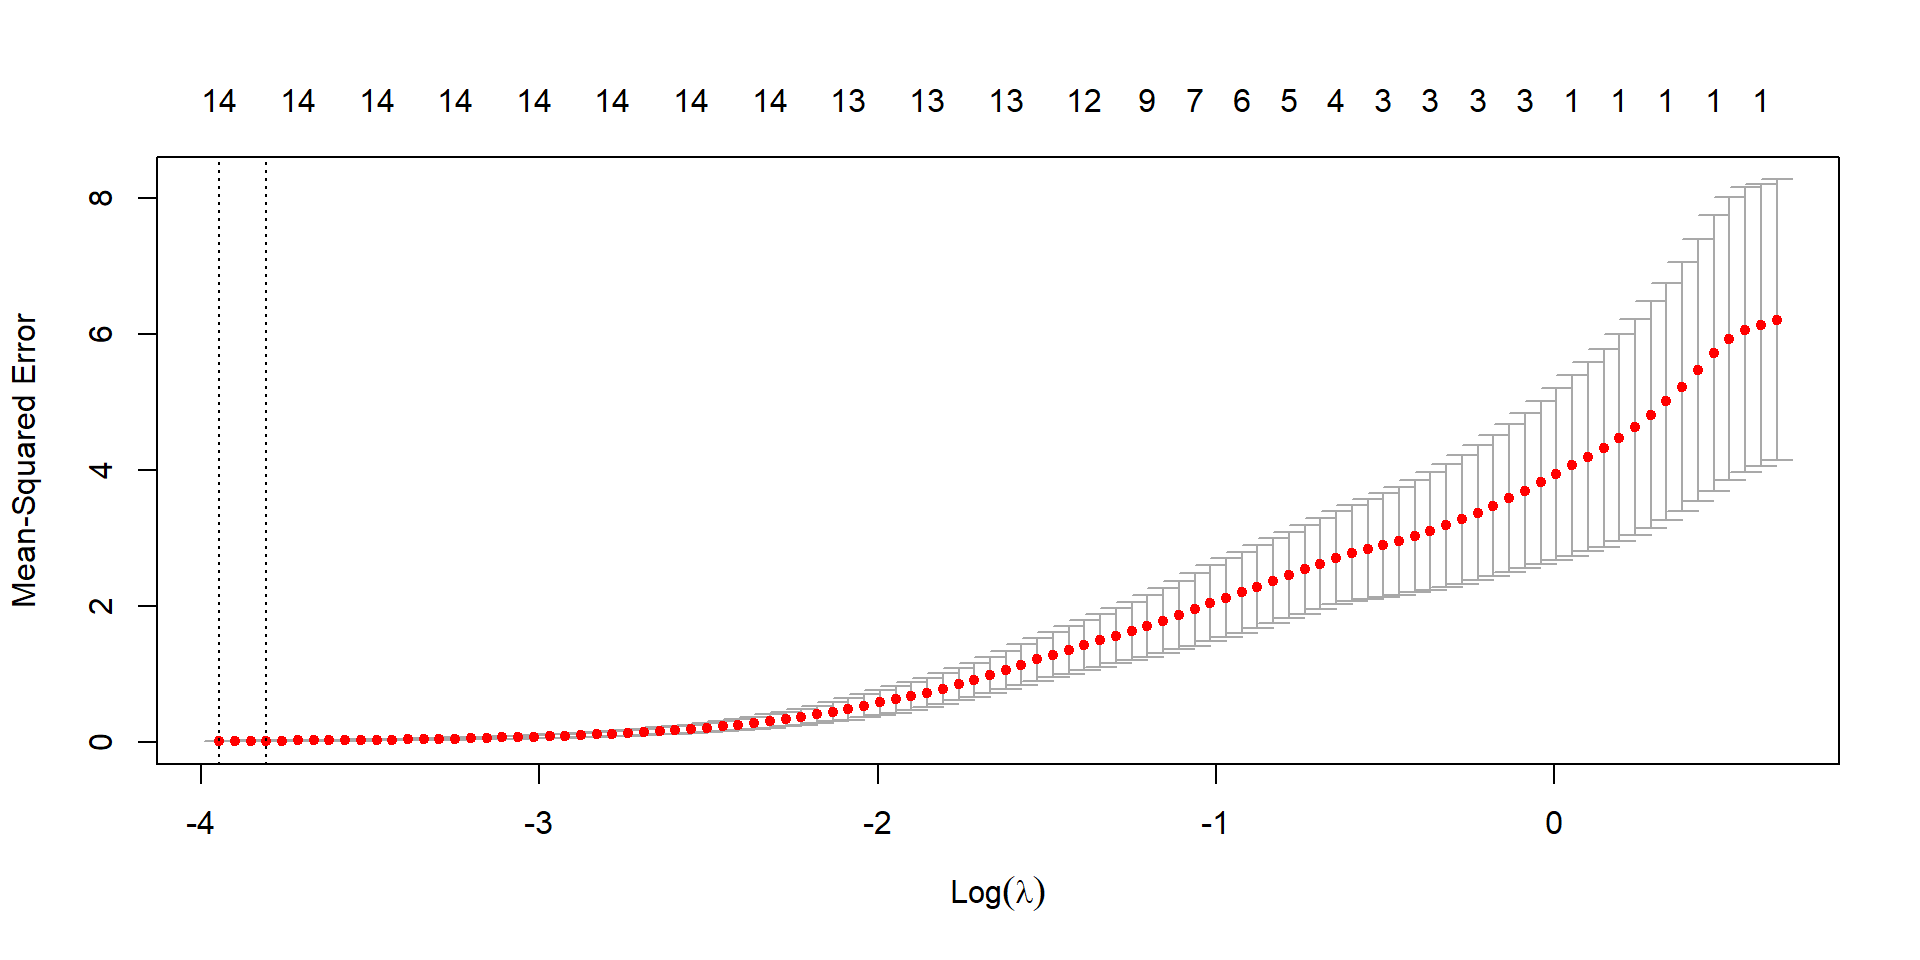
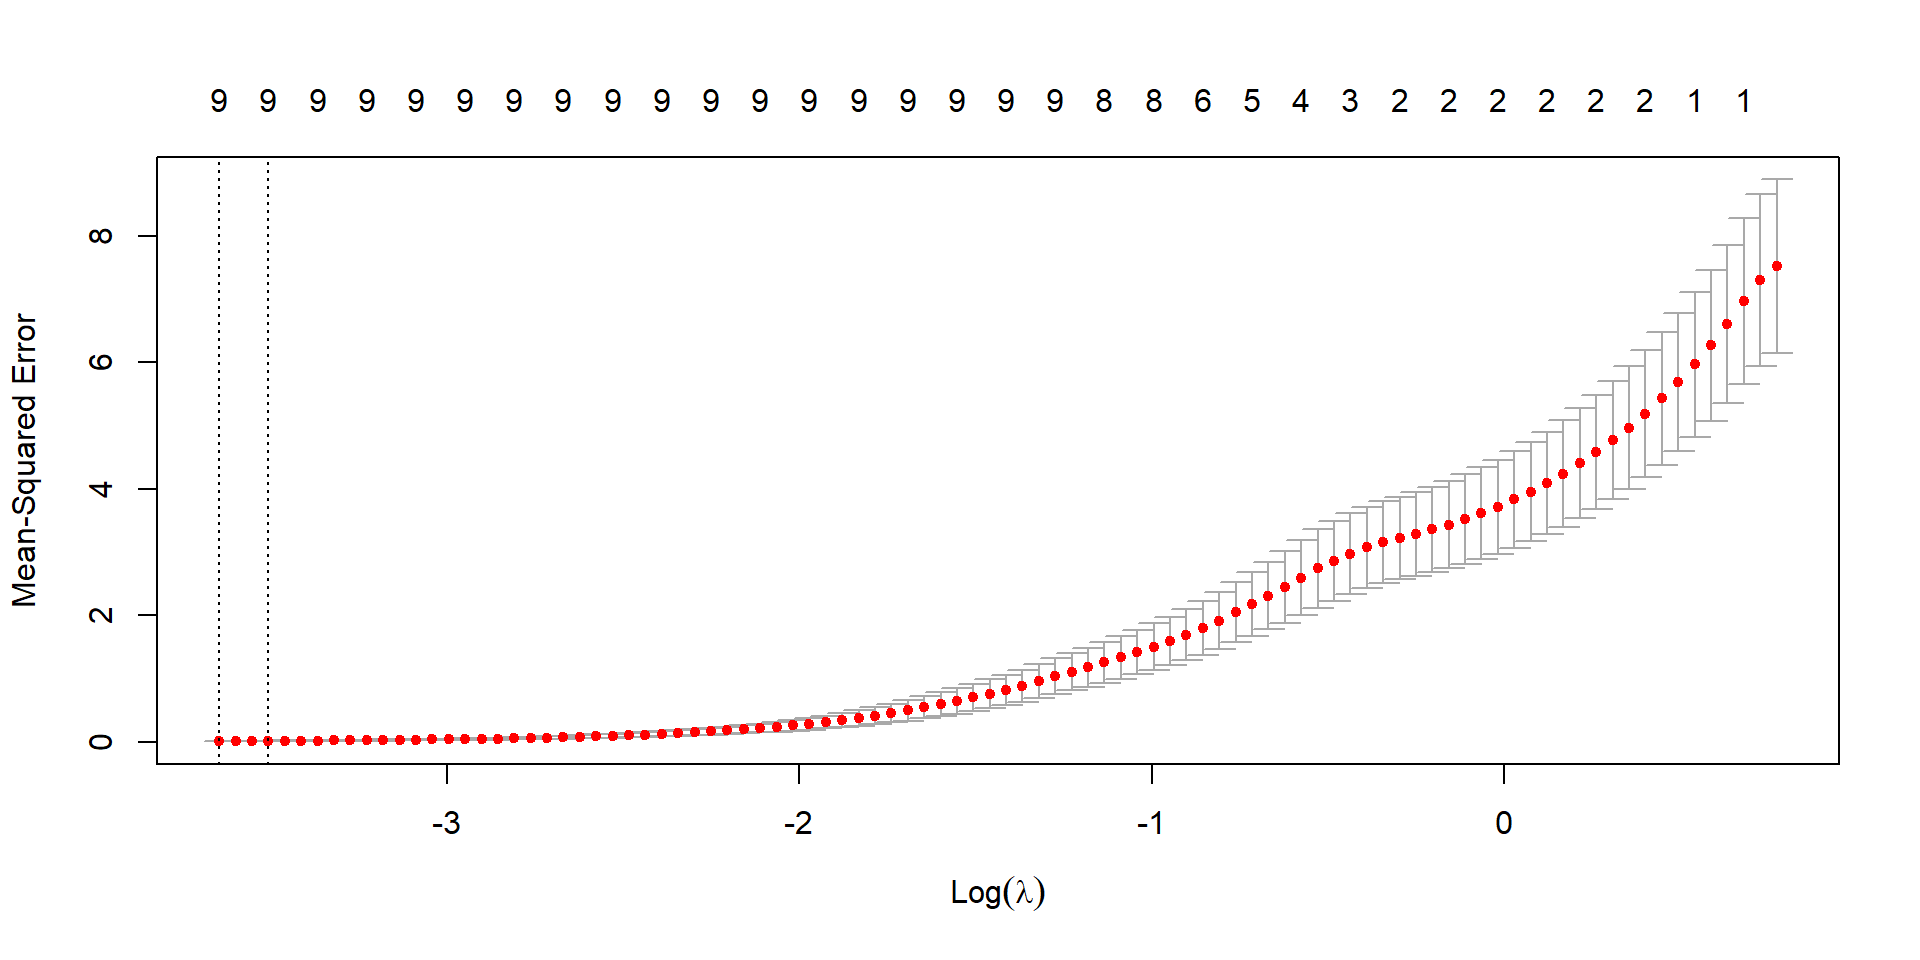
text changes

diff --git a/LASSOPres.html b/LASSOPres.html
@@ -473,11 +473,10 @@
 <h3 id="data-overview">Data Overview</h3>
 <ul>
 <li>The Human Freedom Index from the openintro R package</li>
-<li>This data consists of sociological measures of the different types of freedom. The main dataset has 1458 observations with 123 variables</li>
+<li>This data consists of sociological measures of the different types of freedom.</li>
 <li>For this example, a single year of complete observations will be used, resulting in 93 observations across 99 variables.</li>
-<li>Mimics the situation if a researcher attempted to analyze the most recent year of data in isolation.</li>
 <li>Each column being examined in this data set is a continuous numerical variable.</li>
-<li>Some variables have high degrees of collinearity because of their relation to one another. For example, total disappearances is expected to have high collinearity with total violent disappearances.</li>
+<li>Some variables have high degrees of collinearity because of their relation to one another. For example, total disappearances vs total violent disappearances.</li>
 </ul>
 </section>
 <section id="human-freedom-index-high-dimension-data-1" class="slide level2">
@@ -515,8 +514,8 @@ ALL 74 residuals are 0: no residual degrees of freedom!
 
 Coefficients: (24 not defined because of singularities)
                                      Estimate Std. Error t value Pr(&gt;|t|)
-(Intercept)                        -2.577e-07        NaN     NaN      NaN
-pf_rol                              1.093e-09        NaN     NaN      NaN
+(Intercept)                         6.133e-09        NaN     NaN      NaN
+pf_rol                             -2.043e-09        NaN     NaN      NaN
 pf_ss_disappearances_disap         -2.000e-01        NaN     NaN      NaN
 pf_ss_disappearances_violent       -2.000e-01        NaN     NaN      NaN
 pf_ss_disappearances_organized     -2.000e-01        NaN     NaN      NaN
@@ -528,84 +527,84 @@ pf_ss_women_missing                -3.333e-01        NaN     NaN      NaN
 pf_ss_women_inheritance            -3.333e-01        NaN     NaN      NaN
 pf_ss_women                                NA         NA      NA       NA
 pf_ss                               3.000e+00        NaN     NaN      NaN
-pf_movement_domestic               -2.128e-10        NaN     NaN      NaN
-pf_movement_foreign                 1.804e-09        NaN     NaN      NaN
-pf_movement_women                   1.011e-09        NaN     NaN      NaN
+pf_movement_domestic               -1.075e-09        NaN     NaN      NaN
+pf_movement_foreign                 1.011e-09        NaN     NaN      NaN
+pf_movement_women                   4.530e-10        NaN     NaN      NaN
 pf_movement                                NA         NA      NA       NA
-pf_religion_estop                  -1.352e-09        NaN     NaN      NaN
-pf_religion_harassment              1.346e-09        NaN     NaN      NaN
-pf_religion_restrictions           -1.058e-09        NaN     NaN      NaN
+pf_religion_estop                  -2.036e-10        NaN     NaN      NaN
+pf_religion_harassment              9.805e-10        NaN     NaN      NaN
+pf_religion_restrictions           -1.877e-10        NaN     NaN      NaN
 pf_religion                                NA         NA      NA       NA
-pf_association_association         -1.792e-09        NaN     NaN      NaN
-pf_association_assembly             9.499e-10        NaN     NaN      NaN
-pf_association_political           -1.887e-10        NaN     NaN      NaN
-pf_association_prof                 5.459e-10        NaN     NaN      NaN
-pf_association_sport                1.024e-09        NaN     NaN      NaN
+pf_association_association         -6.053e-10        NaN     NaN      NaN
+pf_association_assembly             1.422e-09        NaN     NaN      NaN
+pf_association_political            3.710e-10        NaN     NaN      NaN
+pf_association_prof                 4.317e-11        NaN     NaN      NaN
+pf_association_sport               -6.652e-10        NaN     NaN      NaN
 pf_association                             NA         NA      NA       NA
-pf_expression_killed                1.098e-09        NaN     NaN      NaN
-pf_expression_jailed               -2.024e-09        NaN     NaN      NaN
-pf_expression_influence            -6.377e-10        NaN     NaN      NaN
-pf_expression_control              -1.000e-10        NaN     NaN      NaN
-pf_expression_cable                 2.357e-09        NaN     NaN      NaN
-pf_expression_newspapers            7.573e-10        NaN     NaN      NaN
-pf_expression_internet             -1.849e-10        NaN     NaN      NaN
+pf_expression_killed               -9.262e-11        NaN     NaN      NaN
+pf_expression_jailed                5.782e-11        NaN     NaN      NaN
+pf_expression_influence            -1.147e-09        NaN     NaN      NaN
+pf_expression_control               1.440e-09        NaN     NaN      NaN
+pf_expression_cable                 2.193e-09        NaN     NaN      NaN
+pf_expression_newspapers            2.832e-10        NaN     NaN      NaN
+pf_expression_internet             -2.303e-09        NaN     NaN      NaN
 pf_expression                              NA         NA      NA       NA
-pf_identity_parental_marriage       9.795e-10        NaN     NaN      NaN
-pf_identity_parental_divorce       -2.897e-10        NaN     NaN      NaN
+pf_identity_parental_marriage      -6.968e-11        NaN     NaN      NaN
+pf_identity_parental_divorce        5.785e-10        NaN     NaN      NaN
 pf_identity_parental                       NA         NA      NA       NA
-pf_identity_sex_male                7.542e-10        NaN     NaN      NaN
-pf_identity_sex_female             -1.812e-09        NaN     NaN      NaN
+pf_identity_sex_male                2.617e-10        NaN     NaN      NaN
+pf_identity_sex_female             -6.843e-10        NaN     NaN      NaN
 pf_identity_sex                            NA         NA      NA       NA
-pf_identity                        -2.020e-09        NaN     NaN      NaN
-ef_government_consumption          -1.439e-09        NaN     NaN      NaN
-ef_government_transfers             1.743e-10        NaN     NaN      NaN
-ef_government_enterprises          -2.477e-10        NaN     NaN      NaN
-ef_government_tax_income            1.130e-09        NaN     NaN      NaN
-ef_government_tax_payroll           5.007e-11        NaN     NaN      NaN
+pf_identity                        -8.277e-10        NaN     NaN      NaN
+ef_government_consumption          -1.771e-09        NaN     NaN      NaN
+ef_government_transfers             8.025e-10        NaN     NaN      NaN
+ef_government_enterprises           5.823e-10        NaN     NaN      NaN
+ef_government_tax_income            6.009e-10        NaN     NaN      NaN
+ef_government_tax_payroll          -4.891e-11        NaN     NaN      NaN
 ef_government_tax                          NA         NA      NA       NA
 ef_government                              NA         NA      NA       NA
-ef_legal_judicial                  -3.159e-09        NaN     NaN      NaN
-ef_legal_courts                     3.793e-09        NaN     NaN      NaN
-ef_legal_protection                 4.171e-09        NaN     NaN      NaN
-ef_legal_military                   3.295e-10        NaN     NaN      NaN
-ef_legal_integrity                  1.445e-10        NaN     NaN      NaN
-ef_legal_enforcement               -2.450e-09        NaN     NaN      NaN
-ef_legal_restrictions              -1.646e-09        NaN     NaN      NaN
-ef_legal_police                    -1.737e-09        NaN     NaN      NaN
-ef_legal_crime                      1.933e-10        NaN     NaN      NaN
-ef_legal_gender                     4.987e-09        NaN     NaN      NaN
-ef_legal                            4.031e-10        NaN     NaN      NaN
-ef_money_growth                    -2.190e-10        NaN     NaN      NaN
-ef_money_sd                         2.913e-09        NaN     NaN      NaN
-ef_money_inflation                 -2.856e-10        NaN     NaN      NaN
-ef_money_currency                   1.240e-09        NaN     NaN      NaN
+ef_legal_judicial                  -3.281e-09        NaN     NaN      NaN
+ef_legal_courts                    -3.016e-10        NaN     NaN      NaN
+ef_legal_protection                -5.387e-10        NaN     NaN      NaN
+ef_legal_military                  -3.003e-09        NaN     NaN      NaN
+ef_legal_integrity                 -1.053e-09        NaN     NaN      NaN
+ef_legal_enforcement               -1.228e-09        NaN     NaN      NaN
+ef_legal_restrictions              -2.887e-09        NaN     NaN      NaN
+ef_legal_police                    -2.713e-09        NaN     NaN      NaN
+ef_legal_crime                     -2.045e-09        NaN     NaN      NaN
+ef_legal_gender                    -5.009e-08        NaN     NaN      NaN
+ef_legal                            1.730e-08        NaN     NaN      NaN
+ef_money_growth                    -9.225e-10        NaN     NaN      NaN
+ef_money_sd                         1.736e-09        NaN     NaN      NaN
+ef_money_inflation                 -2.331e-09        NaN     NaN      NaN
+ef_money_currency                   5.415e-10        NaN     NaN      NaN
 ef_money                                   NA         NA      NA       NA
-ef_trade_tariffs_revenue           -2.284e-10        NaN     NaN      NaN
-ef_trade_tariffs_mean               3.017e-09        NaN     NaN      NaN
-ef_trade_tariffs_sd                 1.024e-09        NaN     NaN      NaN
+ef_trade_tariffs_revenue           -1.111e-09        NaN     NaN      NaN
+ef_trade_tariffs_mean               1.904e-09        NaN     NaN      NaN
+ef_trade_tariffs_sd                -2.822e-10        NaN     NaN      NaN
 ef_trade_tariffs                           NA         NA      NA       NA
-ef_trade_regulatory_nontariff      -1.042e-09        NaN     NaN      NaN
-ef_trade_regulatory_compliance     -5.374e-10        NaN     NaN      NaN
+ef_trade_regulatory_nontariff       7.279e-10        NaN     NaN      NaN
+ef_trade_regulatory_compliance      9.604e-10        NaN     NaN      NaN
 ef_trade_regulatory                        NA         NA      NA       NA
-ef_trade_black                      2.128e-08        NaN     NaN      NaN
-ef_trade_movement_foreign          -4.373e-09        NaN     NaN      NaN
-ef_trade_movement_capital          -2.954e-10        NaN     NaN      NaN
-ef_trade_movement_visit            -3.029e-10        NaN     NaN      NaN
+ef_trade_black                      1.301e-09        NaN     NaN      NaN
+ef_trade_movement_foreign           2.882e-10        NaN     NaN      NaN
+ef_trade_movement_capital          -1.694e-10        NaN     NaN      NaN
+ef_trade_movement_visit             1.343e-10        NaN     NaN      NaN
 ef_trade_movement                          NA         NA      NA       NA
 ef_trade                                   NA         NA      NA       NA
-ef_regulation_credit_ownership      1.284e-10        NaN     NaN      NaN
-ef_regulation_credit_private       -7.485e-10        NaN     NaN      NaN
-ef_regulation_credit_interest       2.745e-09        NaN     NaN      NaN
+ef_regulation_credit_ownership     -8.879e-11        NaN     NaN      NaN
+ef_regulation_credit_private       -1.313e-09        NaN     NaN      NaN
+ef_regulation_credit_interest       1.332e-09        NaN     NaN      NaN
 ef_regulation_credit                       NA         NA      NA       NA
-ef_regulation_labor_minwage         2.763e-10        NaN     NaN      NaN
-ef_regulation_labor_firing          9.433e-10        NaN     NaN      NaN
-ef_regulation_labor_bargain         6.190e-10        NaN     NaN      NaN
-ef_regulation_labor_hours          -2.784e-10        NaN     NaN      NaN
-ef_regulation_labor_dismissal       3.293e-10        NaN     NaN      NaN
-ef_regulation_labor_conscription   -4.282e-10        NaN     NaN      NaN
+ef_regulation_labor_minwage         1.613e-10        NaN     NaN      NaN
+ef_regulation_labor_firing          1.436e-09        NaN     NaN      NaN
+ef_regulation_labor_bargain         3.770e-10        NaN     NaN      NaN
+ef_regulation_labor_hours          -6.800e-11        NaN     NaN      NaN
+ef_regulation_labor_dismissal       1.606e-10        NaN     NaN      NaN
+ef_regulation_labor_conscription   -1.397e-10        NaN     NaN      NaN
 ef_regulation_labor                        NA         NA      NA       NA
-ef_regulation_business_adm         -2.391e-09        NaN     NaN      NaN
-ef_regulation_business_bureaucracy  4.209e-10        NaN     NaN      NaN
+ef_regulation_business_adm         -3.425e-09        NaN     NaN      NaN
+ef_regulation_business_bureaucracy  6.661e-10        NaN     NaN      NaN
 ef_regulation_business_start               NA         NA      NA       NA
 ef_regulation_business_bribes              NA         NA      NA       NA
 ef_regulation_business_licensing           NA         NA      NA       NA
@@ -648,7 +647,7 @@ F-statistic:   NaN on 73 and 0 DF,  p-value: NA</code></pre>
 <img data-src="LASSOPres_files/figure-revealjs/unnamed-chunk-7-1.png" width="960" class="r-stretch"><div class="cell">
 
 </div>
-<p>The best Lambda chosen by this model was 0.0258</p>
+<p>The best Lambda chosen by this model was 0.0289</p>
 </section>
 <section id="human-freedom-index-high-dimension-data-5" class="slide level2">
 <h2>Human Freedom Index (High Dimension Data)</h2>
@@ -657,28 +656,24 @@ F-statistic:   NaN on 73 and 0 DF,  p-value: NA</code></pre>
 <div class="cell">
 <div class="cell-output cell-output-stdout">
 <pre><code>    Model Train_RSquare Train_RMSE Test_RSquare  Test_RMSE CoefficientCount
-1   LASSO     0.9991154 0.06528001    0.9985217 0.05937492               14
-2   Ridge     0.5225016 1.51671199    0.2800712 1.31028149               98
-3 ENet.25     0.9834955 0.28198002    0.9499054 0.34563294               37
-4 ENet.50     0.9947128 0.15959898    0.9852699 0.18742299               29
-5 ENet.75     0.9979777 0.09870463    0.9957020 0.10124062               19</code></pre>
+1   LASSO     0.9990774 0.07396201    0.9988472 0.03824280               10
+2   Ridge     0.5070464 1.70963206    0.3787948 0.88775101               98
+3 ENet.25     0.9894628 0.24995494    0.9721685 0.18790653               38
+4 ENet.50     0.9967215 0.13942385    0.9928500 0.09524185               26
+5 ENet.75     0.9986910 0.08809810    0.9979158 0.05142148               17</code></pre>
 </div>
 <div class="cell-output cell-output-stdout">
-<pre><code>                         Predictor           Coefficient
-1                      (Intercept)     0.140032125128386
-2  pf_ss_disappearances_fatalities   -0.0196133621001942
-3             pf_ss_disappearances    -0.909032875724508
-4              pf_ss_women_missing  -0.00191585693668079
-5                      pf_ss_women    -0.951612121503883
-6                            pf_ss      2.84729207106464
-7           pf_religion_harassment   -0.0196151887533791
-8                      pf_religion -0.000256037945111807
-9             pf_expression_killed    0.0104415208876299
-10        pf_expression_newspapers  -0.00425748319019571
-11           ef_legal_restrictions -0.000369574913032326
-12                  ef_legal_crime    0.0320938383793796
-13               ef_trade_movement   -0.0059680490010127
-14    ef_regulation_business_start   0.00951878719305032</code></pre>
+<pre><code>                         Predictor          Coefficient
+1                      (Intercept)     0.23536250769128
+2  pf_ss_disappearances_fatalities  -0.0272462418025622
+3             pf_ss_disappearances   -0.913673587850228
+4              pf_ss_women_missing -0.00308558707600017
+5                      pf_ss_women    -0.95346463720301
+6                            pf_ss     2.85919337526971
+7           pf_religion_harassment  -0.0145198179100964
+8                      pf_religion -0.00125307904338788
+9                   ef_legal_crime    0.039532539635956
+10               ef_trade_movement -0.00306224019078409</code></pre>
 </div>
 </div>
 <h3 id="notes">Notes</h3>
